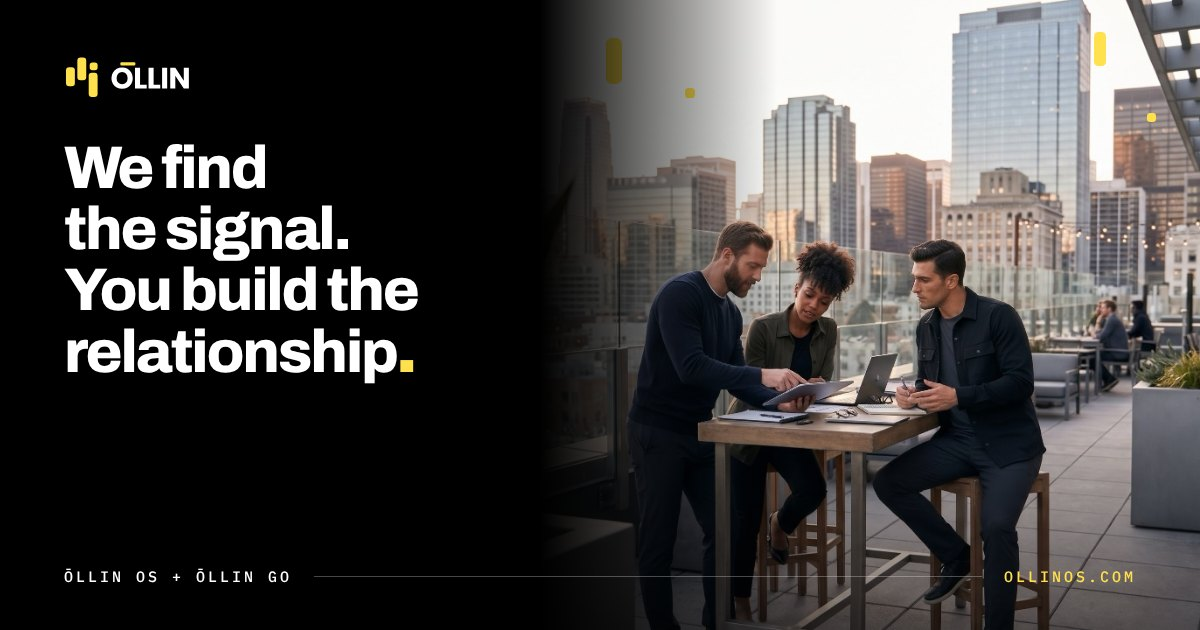
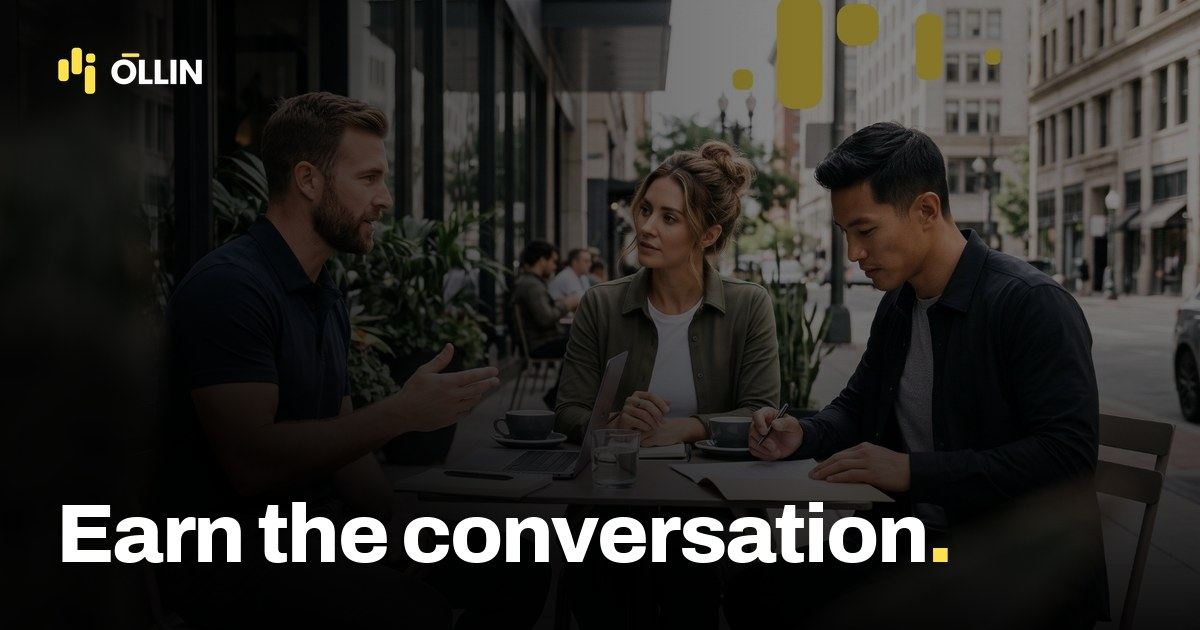
Home: "Earn the conversation." in tab title and link preview (#23)
* Home: tab title + link preview say "Earn the conversation."

Claude-Session: https://claude.ai/code/session_01RNDgBFUhsujeeDEcYjCuAB

* Link preview: full café photo with "Earn the conversation." laid over it

Claude-Session: https://claude.ai/code/session_01RNDgBFUhsujeeDEcYjCuAB

* Link preview: pure black fade over the photo, like the site hero

Claude-Session: https://claude.ai/code/session_01RNDgBFUhsujeeDEcYjCuAB

---------

diff --git a/index.html b/index.html
@@ -3,25 +3,25 @@
 <head>
 <meta charset="utf-8">
 <meta name="viewport" content="width=device-width,initial-scale=1,viewport-fit=cover">
-<title>ŌLLIN OS — Verified account signals for staffing sales</title>
+<title>ŌLLIN OS · Earn the conversation.</title>
 <meta name="description" content="ŌLLIN finds the client signals that matter, verifies them, and maps the people worth reaching. Built for staffing sales. Nothing sends without your yes.">
 <link rel="canonical" href="https://www.ollinos.com/">
 <meta name="robots" content="index,follow">
 <meta property="og:type" content="website">
 <meta property="og:site_name" content="ŌLLIN">
 <meta property="og:url" content="https://www.ollinos.com/">
-<meta property="og:title" content="ŌLLIN OS — Verified account signals for staffing sales">
+<meta property="og:title" content="ŌLLIN OS · Earn the conversation.">
 <meta property="og:description" content="ŌLLIN finds the client signals that matter, verifies them, and maps the people worth reaching. Built for staffing sales. Nothing sends without your yes.">
-<meta property="og:image" content="https://www.ollinos.com/assets/og/home.jpg">
+<meta property="og:image" content="https://www.ollinos.com/assets/og/home.jpg?v=4">
 <meta property="og:image:width" content="1200">
 <meta property="og:image:height" content="630">
 <meta property="og:image:type" content="image/jpeg">
-<meta property="og:image:alt" content="ŌLLIN: We find the signal. You build the relationship.">
+<meta property="og:image:alt" content="ŌLLIN: Earn the conversation.">
 <meta name="twitter:card" content="summary_large_image">
-<meta name="twitter:title" content="ŌLLIN OS — Verified account signals for staffing sales">
+<meta name="twitter:title" content="ŌLLIN OS · Earn the conversation.">
 <meta name="twitter:description" content="ŌLLIN finds the client signals that matter, verifies them, and maps the people worth reaching. Built for staffing sales. Nothing sends without your yes.">
-<meta name="twitter:image" content="https://www.ollinos.com/assets/og/home.jpg">
-<meta name="twitter:image:alt" content="ŌLLIN: We find the signal. You build the relationship.">
+<meta name="twitter:image" content="https://www.ollinos.com/assets/og/home.jpg?v=4">
+<meta name="twitter:image:alt" content="ŌLLIN: Earn the conversation.">
 <link rel="icon" href="/favicon.ico" sizes="48x48"><link rel="icon" type="image/png" sizes="32x32" href="/assets/favicon-32.png"><link rel="icon" type="image/svg+xml" href="/assets/favicon.svg"><link rel="apple-touch-icon" href="/apple-touch-icon.png">
 <link href="https://fonts.googleapis.com/css2?family=Archivo:wght@500;600;700;800&family=Inter:wght@400;500;600&family=IBM+Plex+Mono:wght@400;500&display=swap" rel="stylesheet">
 <link rel="stylesheet" href="/style.css">
